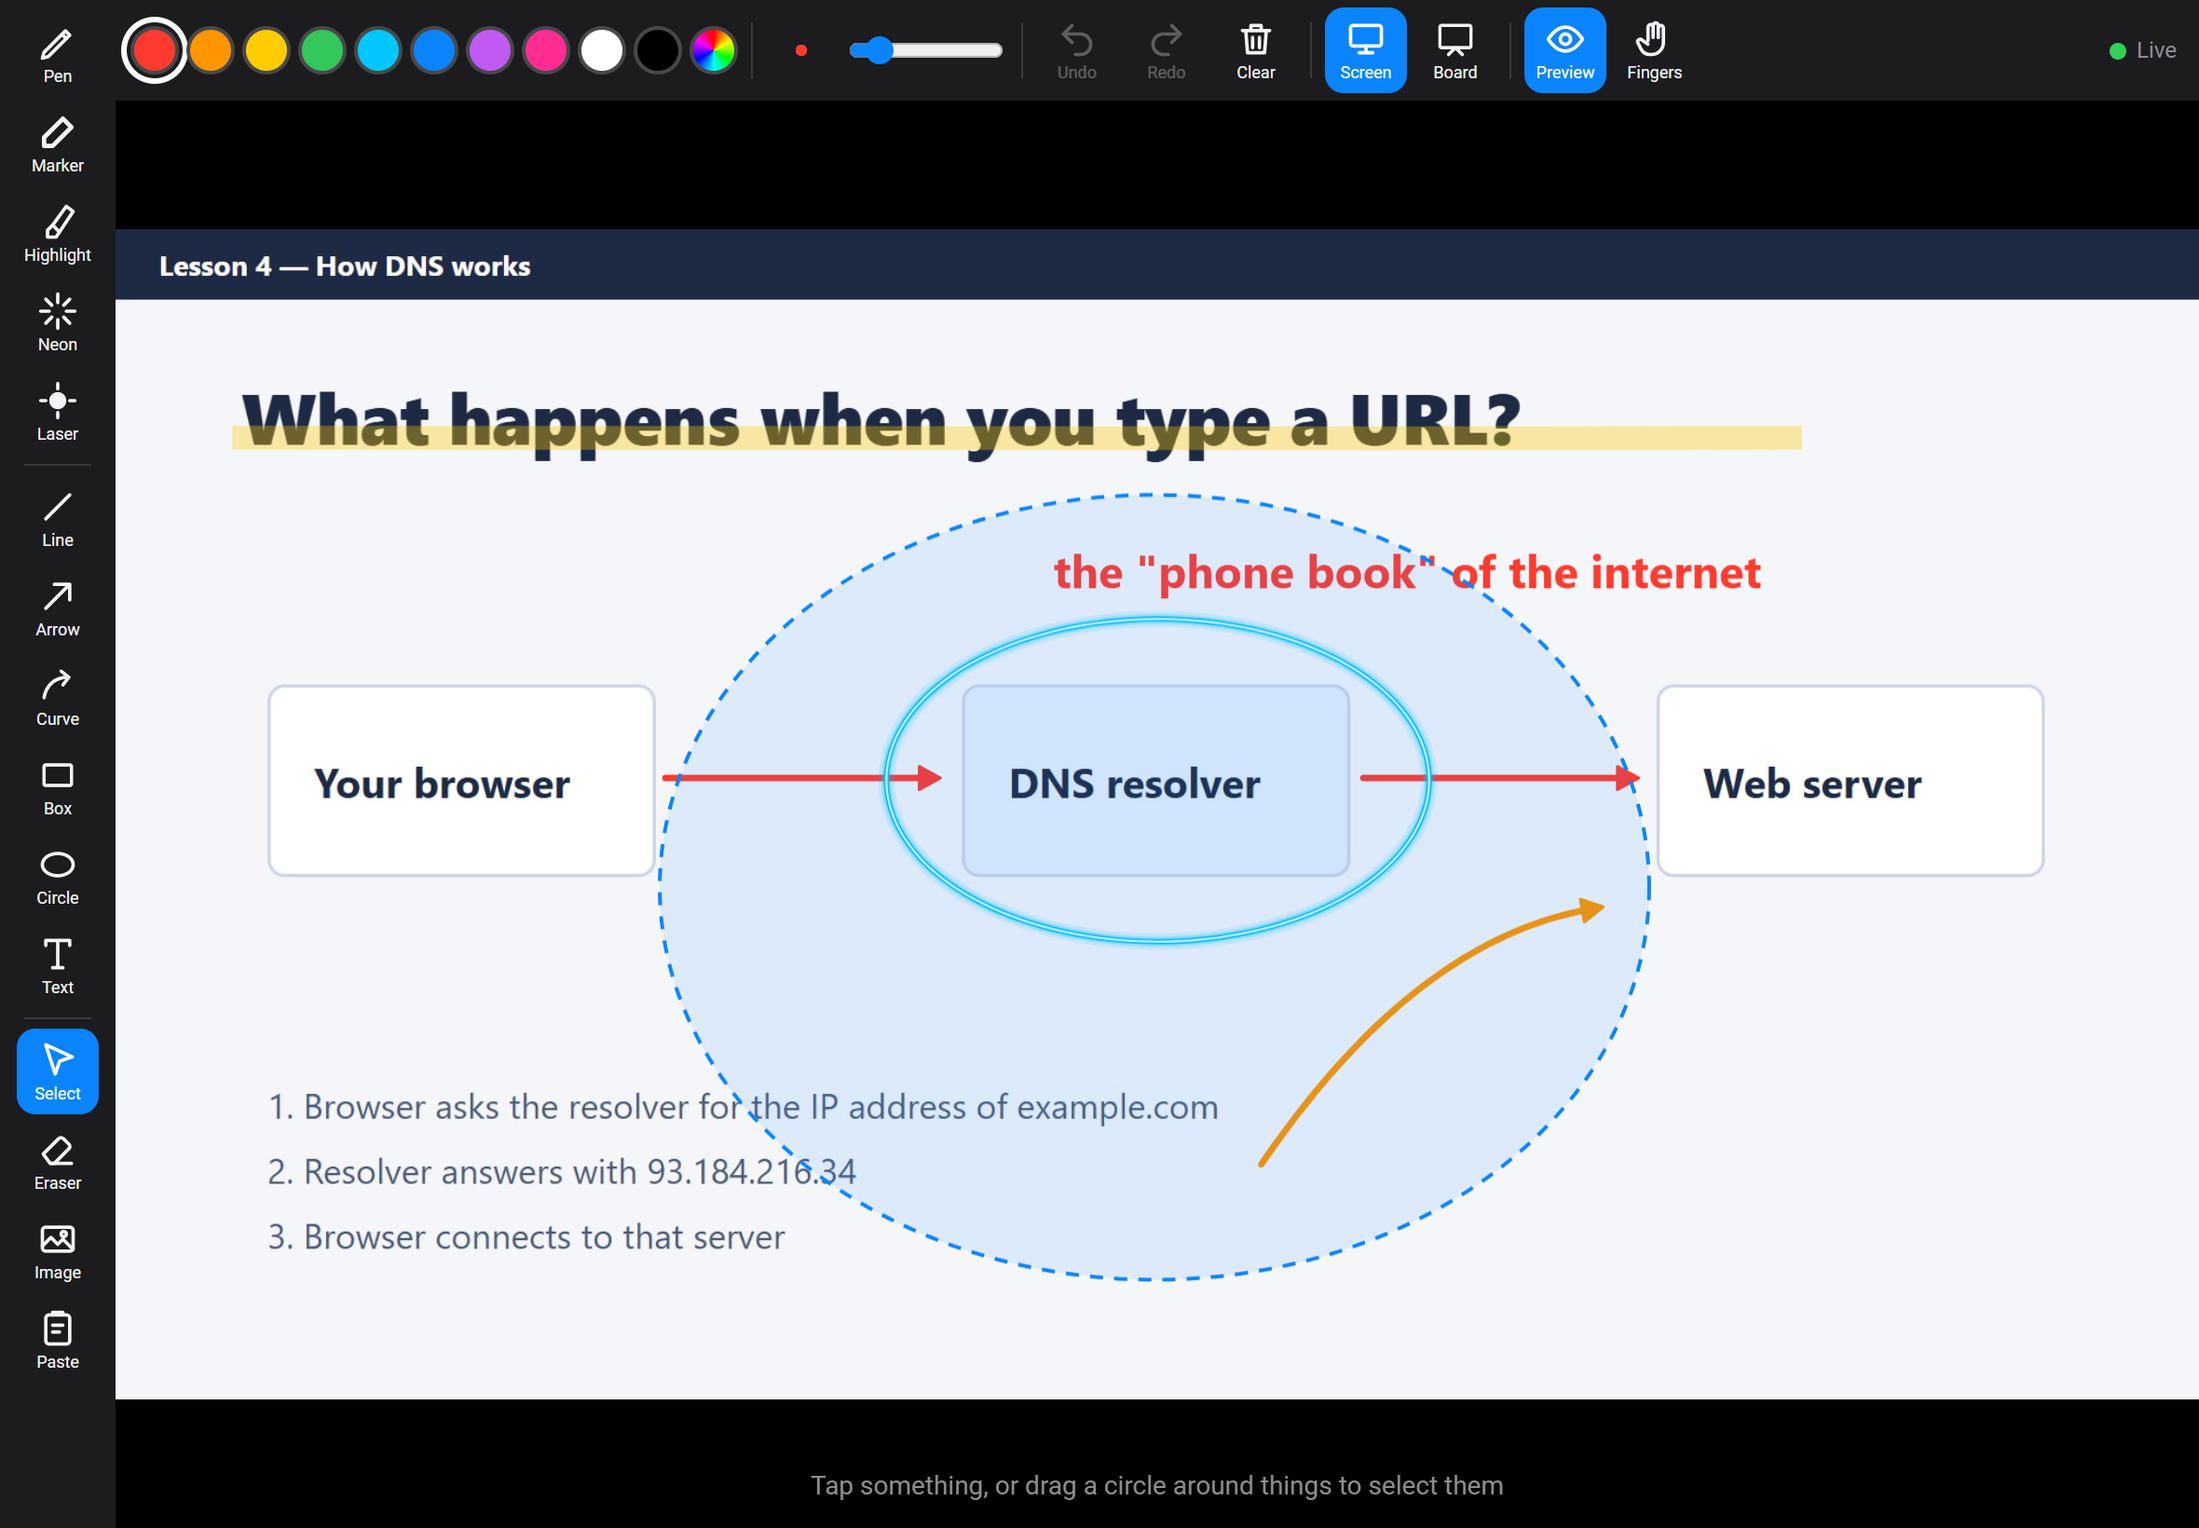
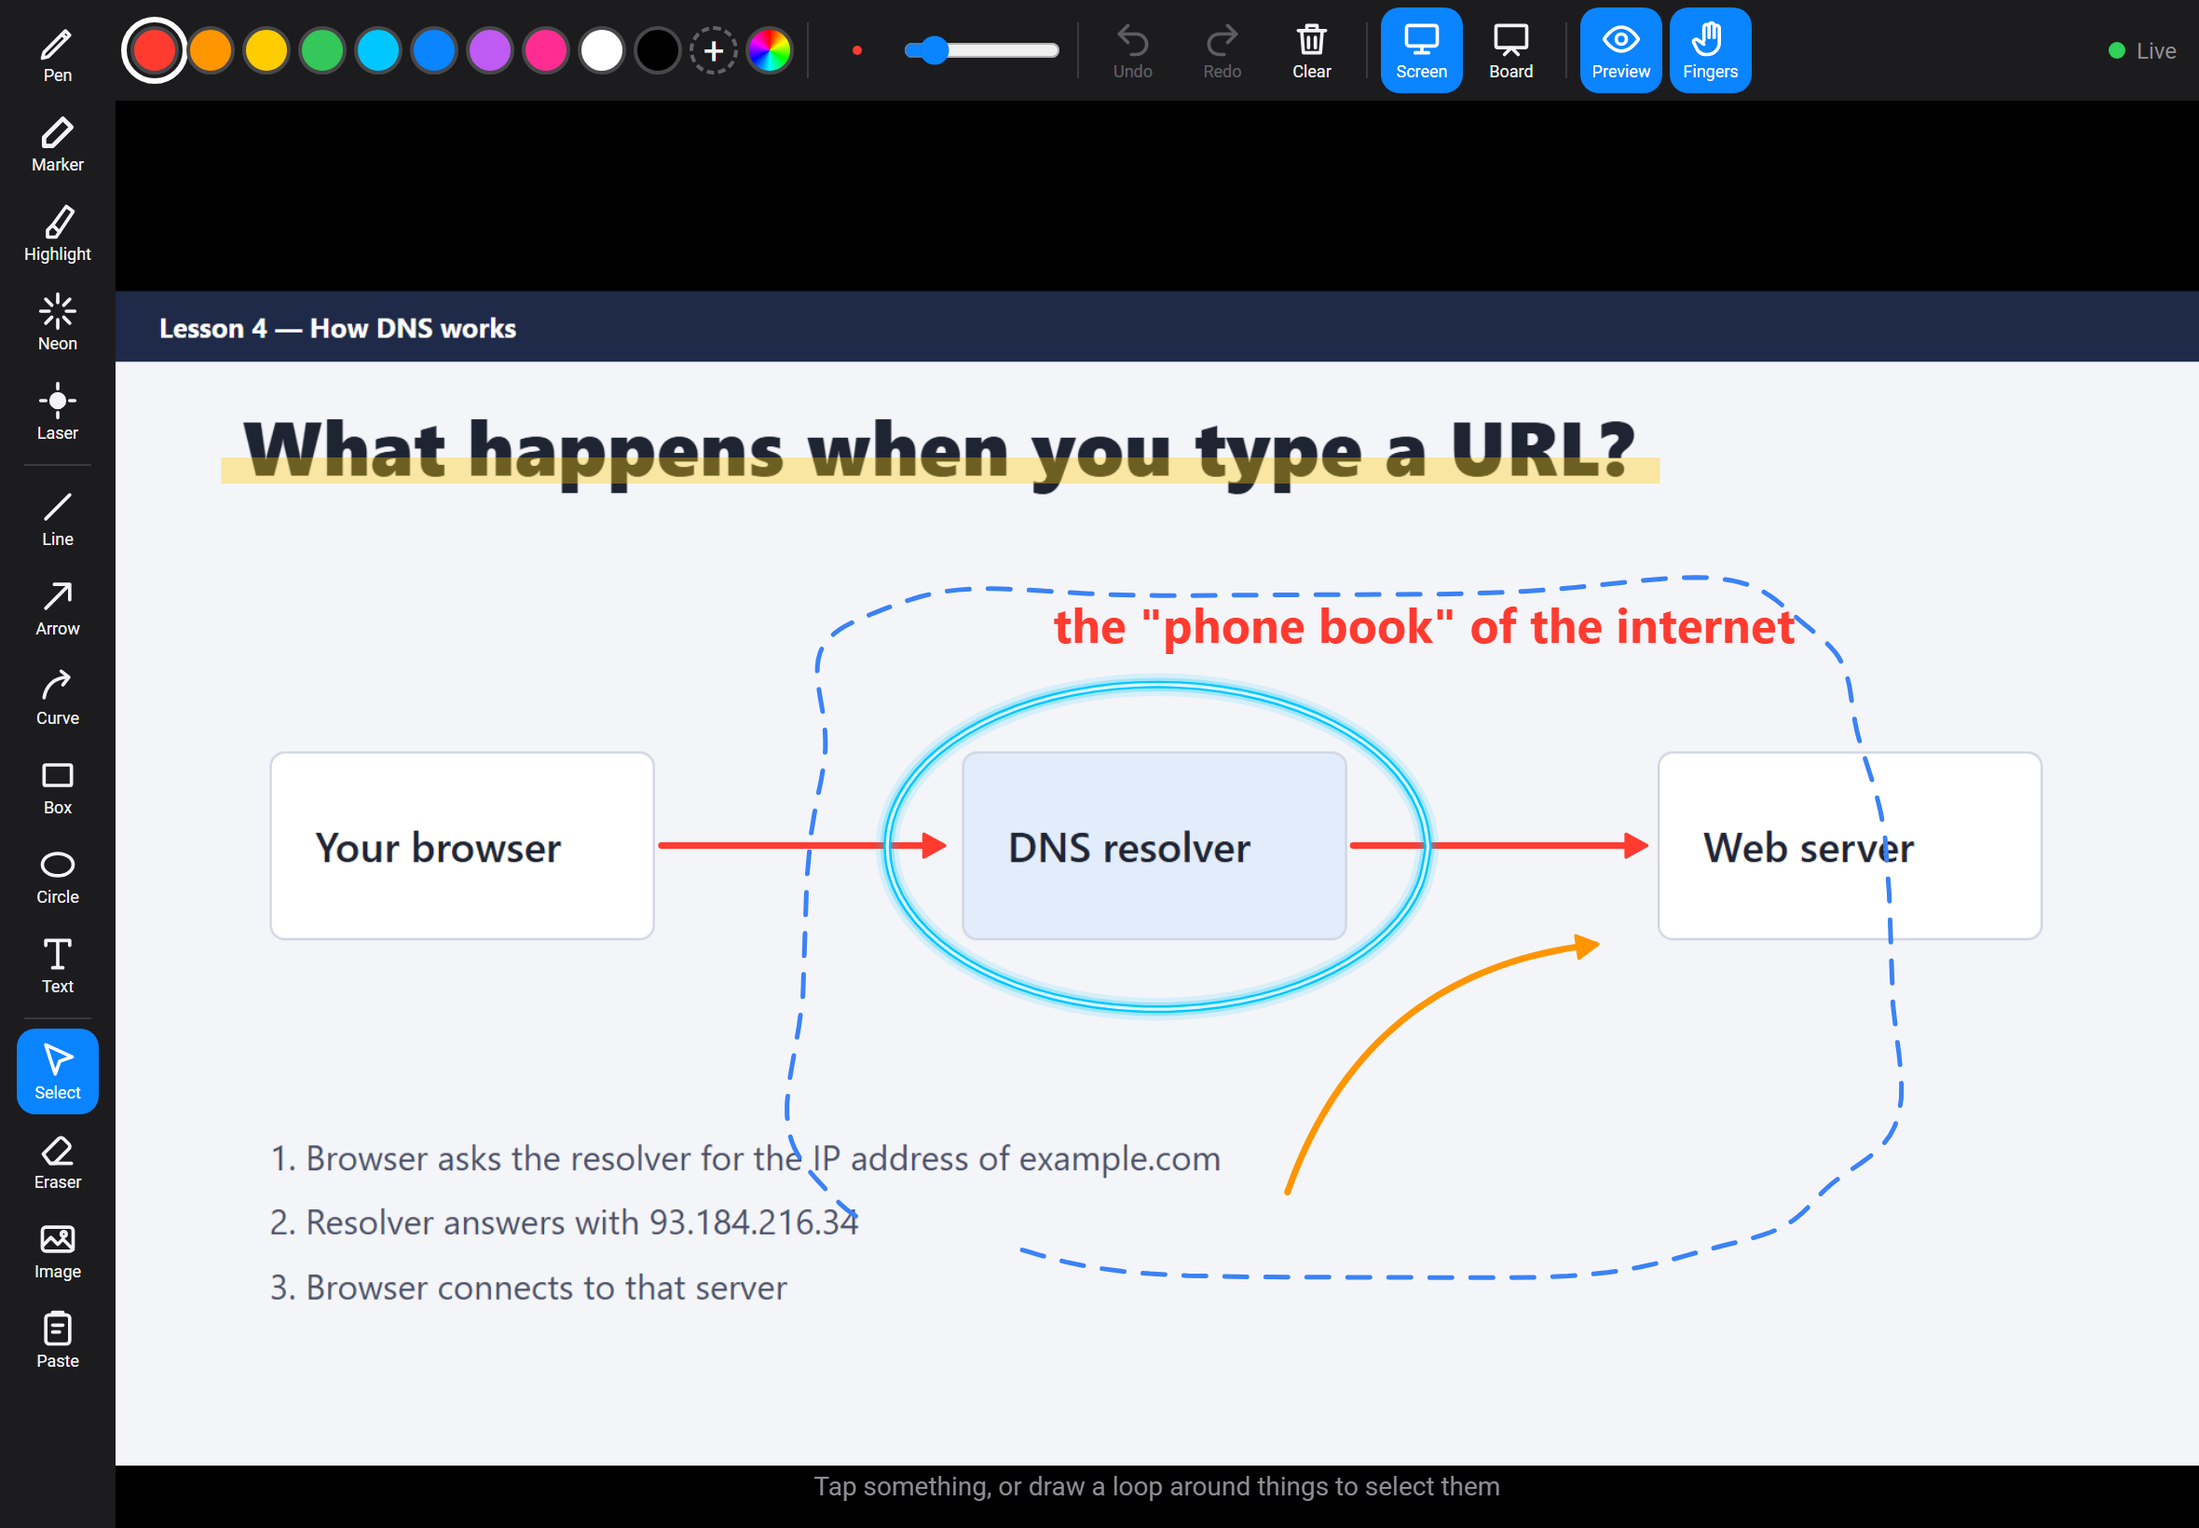
Smoother ink, pinch zoom and laser that keeps whole words
- Strokes are drawn with a 5-point blur plus Catmull-Rom spline, so the
  whole-pixel stairs tablets report no longer show and fast loops come
  out round; stroke endpoints stay at the pen tip (no added lag)
- Pinch with two fingers to zoom the tablet view (CSS transform, sharp
  re-render on release), one finger pans when fingers don't draw, palm
  touches are ignored while the pen is down
- Laser strokes stay on screen while you keep writing and fade together
  1.5 s after the last stroke
- Deleting a laser stroke on the PC side now works (used when a pinch
  cancels a stroke in progress)
- README: lasso caption, pinch zoom

diff --git a/inkcast.py b/inkcast.py
@@ -34,7 +34,7 @@ PORT = int(os.environ.get("INKCAST_PORT", "8765"))
 REF = 1920.0                      # sizes are defined relative to a 1920px-wide screen
 STROKES = {"pen", "marker", "hl", "neon", "laser", "farrow"}
 SHAPES = {"line", "arrow", "rect", "ellipse"}
-LASER_HOLD, LASER_FADE = 0.6, 0.6  # seconds a laser line stays, then fades
+LASER_HOLD, LASER_FADE = 1.5, 0.6  # seconds laser ink stays after the last stroke, then fades
 PREVIEW_WIDTH = 1280               # width of the screen preview sent to the tablet
 PREVIEW_QUALITY = 55
 MAX_IMAGE = 1600                   # pasted/inserted images are scaled down to this
@@ -157,16 +157,41 @@ class Bridge(QObject):
     tablet = Signal()       # a tablet connected
 
 
+SMOOTH_K = (0.06, 0.24, 0.4, 0.24, 0.06)  # tablets report pen positions in whole pixels; this blurs the stairs out
+
+
+def smooth_pts(pts):
+    n = len(pts)
+    if n < 5:
+        return pts
+    out = [pts[0]]
+    for i in range(1, n - 1):
+        x = y = 0.0
+        for j, w in enumerate(SMOOTH_K):
+            q = pts[min(max(i + j - 2, 0), n - 1)]
+            x += q.x() * w
+            y += q.y() * w
+        out.append(QPointF(x, y))
+    out.append(pts[-1])
+    return out
+
+
 def smooth_path(pts):
+    """Catmull-Rom spline through the (de-staired) points: fast strokes with few samples still come out round."""
+    pts = smooth_pts(pts)
     path = QPainterPath(pts[0])
-    if len(pts) < 3:
+    n = len(pts)
+    if n < 3:
         for q in pts[1:]:
             path.lineTo(q)
         return path
-    for i in range(1, len(pts) - 1):
-        a, b = pts[i], pts[i + 1]
-        path.quadTo(a, QPointF((a.x() + b.x()) / 2.0, (a.y() + b.y()) / 2.0))
-    path.lineTo(pts[-1])
+    for i in range(n - 1):
+        p0 = pts[i - 1] if i > 0 else pts[0]
+        p1, p2 = pts[i], pts[i + 1]
+        p3 = pts[i + 2] if i + 2 < n else pts[n - 1]
+        c1 = QPointF(p1.x() + (p2.x() - p0.x()) / 6.0, p1.y() + (p2.y() - p0.y()) / 6.0)
+        c2 = QPointF(p2.x() - (p3.x() - p1.x()) / 6.0, p2.y() - (p3.y() - p1.y()) / 6.0)
+        path.cubicTo(c1, c2, p2)
     return path
 
 
@@ -290,6 +315,8 @@ class Overlay(QWidget):
         if t == "add":
             it = self._prep(dict(d["item"]))
             if it["k"] == "laser":
+                for l in self.lasers.values():  # keep earlier laser strokes while writing
+                    l["_end"] = None
                 self.lasers[it["id"]] = it
             else:
                 items[it["id"]] = it
@@ -341,7 +368,9 @@ class Overlay(QWidget):
             for i in self._ids(d):
                 self.snap.pop(i, None)
                 if i in self.lasers:
-                    self.lasers[i]["_end"] = time.monotonic()
+                    now = time.monotonic()
+                    for l in self.lasers.values():  # all laser strokes fade together
+                        l["_end"] = now
                 if i in self.live:
                     self.live.discard(i)
                     it = items.get(i)
@@ -357,6 +386,9 @@ class Overlay(QWidget):
                 self.live.discard(d["id"])
                 self.dirty = True
                 self._mark(self._rect_of(it))
+            lz = self.lasers.pop(d["id"], None)
+            if lz is not None:
+                self._mark(self._rect_of(lz))
         elif t == "clear":
             items.clear(); self.live.clear(); self.lasers.clear(); self.snap.clear()
             self.dirty = True
@@ -1148,7 +1180,7 @@ html,body{margin:0;height:100%;background:#000;color:var(--fg);overflow:hidden;o
 #status{margin-left:auto;display:flex;align-items:center;gap:6px;color:var(--mut);white-space:nowrap;flex:none;padding:0 4px 0 8px;font-size:12px}
 #led{width:9px;height:9px;border-radius:50%;background:#ff453a}
 #led.ok{background:#30d158}
-#stage{position:fixed;background:#1a1a1a;overflow:hidden}
+#stage{position:fixed;background:#1a1a1a;overflow:hidden;transform-origin:0 0}
 #bg,#cv{position:absolute;left:0;top:0;width:100%;height:100%}
 #bg{display:block;visibility:hidden}
 #ed{position:absolute;display:none;z-index:1;margin:0;padding:0 2px;border:1.5px dashed #0a84ff;border-radius:4px;outline:none;
@@ -1450,12 +1482,76 @@ function ui(){
 }
 
 // ---------------- layout
+// ---------------- pinch zoom / pan with fingers (a CSS transform on the stage; pen input maps through it)
+let zoom = 1, zx = 0, zy = 0, pinch = null, pan = null, pidType = null;
+const touches = new Map();
+const MAX_ZOOM = 8;
+function applyZoom(){ stage.style.transform = zoom===1 ? '' : `translate(${zx}px,${zy}px) scale(${zoom})`; }
+function clampPan(){
+  if (zoom === 1) { zx = zy = 0; return; }
+  zx = Math.min(0, Math.max(sw*(1-zoom), zx)); zy = Math.min(0, Math.max(sh*(1-zoom), zy));
+}
+function stageOrigin(){ return [parseFloat(stage.style.left)||0, parseFloat(stage.style.top)||0]; }
+function pinchStart(){
+  const [a, b] = [...touches.values()], [L0, T0] = stageOrigin();
+  pinch = {d0: Math.hypot(a.x-b.x, a.y-b.y) || 1, z0: zoom,
+           lx: ((a.x+b.x)/2 - L0 - zx)/zoom, ly: ((a.y+b.y)/2 - T0 - zy)/zoom};  // stage point under the fingers
+}
+function pinchMove(){
+  const [a, b] = [...touches.values()], [L0, T0] = stageOrigin();
+  zoom = Math.min(MAX_ZOOM, Math.max(1, pinch.z0 * Math.hypot(a.x-b.x, a.y-b.y) / pinch.d0));
+  if (zoom < 1.04) zoom = 1;
+  zx = (a.x+b.x)/2 - L0 - zoom*pinch.lx; zy = (a.y+b.y)/2 - T0 - zoom*pinch.ly;
+  clampPan(); applyZoom();
+}
+function panStart(t){ pan = {x:t.x, y:t.y, zx, zy}; }
+function panMove(t){ zx = pan.zx + t.x - pan.x; zy = pan.zy + t.y - pan.y; clampPan(); applyZoom(); }
+function cancelPointer(){   // a second finger landed mid-stroke: drop whatever that pointer was doing
+  if (pid === null) return;
+  try { cv.releasePointerCapture(pid); } catch(_){}
+  if (cur) {
+    const it = cur; cur = null;
+    if (it.k==='laser') { const i = lasers.indexOf(it); if (i >= 0) lasers.splice(i, 1); }
+    else { const i = items.indexOf(it); if (i >= 0) items.splice(i, 1); }
+    send({t:'del', id:it.id});
+  }
+  pid = null; pidType = null; crect = null; erase = null; marq = null; drag = null; downPt = null;
+  needDraw = baseDirty = true;
+}
+function touchDown(e){   // returns true when the touch was taken by zoom/pan and must not draw
+  if (pid !== null && pidType === 'pen') return true;   // palm resting while writing
+  touches.set(e.pointerId, {x:e.clientX, y:e.clientY});
+  try { cv.setPointerCapture(e.pointerId); } catch(_){}
+  if (touches.size === 2) { cancelPointer(); pan = null; pinchStart(); return true; }
+  if (touches.size > 2) return true;
+  if (!S.fingers) { if (zoom > 1) panStart(touches.get(e.pointerId)); return true; }
+  return false;
+}
+function touchMove(e){
+  const t = touches.get(e.pointerId); if (!t) return false;
+  t.x = e.clientX; t.y = e.clientY;
+  if (pinch && touches.size >= 2) pinchMove();
+  else if (pan) panMove(t);
+  return e.pointerId !== pid;
+}
+function touchUp(e){
+  if (!touches.delete(e.pointerId)) return false;
+  if (pinch && touches.size < 2) {
+    pinch = null; layout();
+    const rest = [...touches.values()];
+    if (rest.length === 1 && zoom > 1) panStart(rest[0]);   // keep panning with the finger still down
+  } else if (pan && !touches.size) pan = null;
+  return e.pointerId !== pid;
+}
+addEventListener('gesturestart', e => e.preventDefault());
+
 function layout(){
   const L = 62, T = 54, W = innerWidth - L, Hh = innerHeight - T;
   let w = W, h = W/aspect; if (h > Hh) { h = Hh; w = Hh*aspect; }
   sw = w; sh = h;
   Object.assign(stage.style, {left:(L+(W-w)/2)+'px', top:(T+(Hh-h)/2)+'px', width:w+'px', height:h+'px'});
-  const dpr = devicePixelRatio || 1;
+  clampPan(); applyZoom();
+  const dpr = Math.min((devicePixelRatio || 1) * zoom, 4096 / w);  // more pixels when zoomed in so ink stays sharp
   cv.width = base.width = Math.round(w*dpr); cv.height = base.height = Math.round(h*dpr);
   if (editor) placeEditor();
   baseDirty = needDraw = true;
@@ -1463,17 +1559,30 @@ function layout(){
 addEventListener('resize', layout);
 
 // ---------------- rendering (mirrors the PC renderer)
+const SMOOTH_K = [0.06, 0.24, 0.4, 0.24, 0.06];  // mirrors the PC: blurs out whole-pixel stairs in pen input
+function smoothPts(pts){
+  const n = pts.length; if (n < 5) return pts;
+  const out = [pts[0]];
+  for (let i=1;i<n-1;i++) {
+    let x=0, y=0;
+    for (let j=0;j<5;j++) { const q = pts[Math.min(Math.max(i+j-2,0),n-1)]; x += q[0]*SMOOTH_K[j]; y += q[1]*SMOOTH_K[j]; }
+    out.push([x,y]);
+  }
+  out.push(pts[n-1]); return out;
+}
 function pathOf(c, pts, W, H){
   c.beginPath();
+  pts = smoothPts(pts);
   const n = pts.length;
   c.moveTo(pts[0][0]*W, pts[0][1]*H);
   if (n === 1) { c.lineTo(pts[0][0]*W+0.01, pts[0][1]*H); return; }
   if (n < 3) { c.lineTo(pts[1][0]*W, pts[1][1]*H); return; }
-  for (let i=1;i<n-1;i++) {
-    const x = pts[i][0]*W, y = pts[i][1]*H;
-    c.quadraticCurveTo(x, y, (x + pts[i+1][0]*W)/2, (y + pts[i+1][1]*H)/2);
+  // Catmull-Rom spline through every point: fast strokes with few samples still come out round
+  for (let i=0;i<n-1;i++) {
+    const p0 = pts[i>0?i-1:0], p1 = pts[i], p2 = pts[i+1], p3 = pts[i+2<n?i+2:n-1];
+    c.bezierCurveTo((p1[0]+(p2[0]-p0[0])/6)*W, (p1[1]+(p2[1]-p0[1])/6)*H,
+                    (p2[0]-(p3[0]-p1[0])/6)*W, (p2[1]-(p3[1]-p1[1])/6)*H, p2[0]*W, p2[1]*H);
   }
-  c.lineTo(pts[n-1][0]*W, pts[n-1][1]*H);
 }
 function drawBoard(c, W, H){
   c.fillStyle = BGC[S.bg]; c.fillRect(0,0,W,H);
@@ -1557,9 +1666,9 @@ function render(){
   if (drag) for (const it of items) if (drag.set.has(it)) draw(ctx, it, W, Hc);
   if (cur && cur.k!=='laser') draw(ctx, cur, W, Hc, 1, cur._pred);
   const now = performance.now();
-  lasers = lasers.filter(l => !l._end || now - l._end < 1200);
+  lasers = lasers.filter(l => !l._end || now - l._end < 2100);
   for (const l of lasers) {
-    let f = 1; if (l._end) { const a = now - l._end - 600; if (a > 0) f = Math.max(0, 1 - a/600); }
+    let f = 1; if (l._end) { const a = now - l._end - 1500; if (a > 0) f = Math.max(0, 1 - a/600); }
     draw(ctx, l, W, Hc, f, l===cur ? l._pred : null);
   }
   drawMarq(W, Hc);
@@ -1848,15 +1957,16 @@ function accept(e){
 function pushHist(h){ hist.push(h); if (hist.length>300) hist.shift(); redoS.length = 0; ui(); }
 
 cv.addEventListener('pointerdown', e => {
+  if (e.pointerType==='touch' && touchDown(e)) { e.preventDefault(); return; }
   if (!accept(e)) return;
   e.preventDefault();
   if (editor) { commitEditor(); return; }
-  pid = e.pointerId; crect = cv.getBoundingClientRect();
+  pid = e.pointerId; pidType = e.pointerType; crect = cv.getBoundingClientRect();
   try { cv.setPointerCapture(pid); } catch(_){}
   const p = pt(e), t = S.tool;
   if (STROKE[t]) {
     cur = {id:uid(), k:t, c:S.color, w:S.size*WMUL[t], pts:[p]};
-    if (t==='laser') lasers.push(cur); else items.push(cur);
+    if (t==='laser') { for (const l of lasers) l._end = null; lasers.push(cur); } else items.push(cur);
     send({t:'add', item:{id:cur.id, k:t, c:cur.c, w:cur.w, pts:[p]}});
   } else if (SHAPE[t]) {
     cur = {id:uid(), k:t, c:S.color, w:S.size, a:p, b:p};
@@ -1875,6 +1985,7 @@ cv.addEventListener('pointerdown', e => {
   flush(); needDraw = true; ui();
 });
 cv.addEventListener('pointermove', e => {
+  if (e.pointerType==='touch' && touchMove(e)) return;
   if (e.pointerId !== pid) return;
   const evs = (e.getCoalescedEvents && e.getCoalescedEvents().length) ? e.getCoalescedEvents() : [e];
   if (cur && STROKE[cur.k]) {
@@ -1923,11 +2034,12 @@ cv.addEventListener('pointermove', e => {
   flush();   // send right away instead of waiting for the next frame
 });
 function endPointer(e){
+  if (e.pointerType==='touch' && touchUp(e)) return;
   if (e.pointerId !== pid) return;
-  pid = null; crect = null;
+  pid = null; pidType = null; crect = null;
   if (cur) {
     const it = cur; cur = null; it._pred = null;
-    if (it.k==='laser') { it._end = performance.now(); send({t:'end', id:it.id}); }
+    if (it.k==='laser') { const t = performance.now(); for (const l of lasers) l._end = t; send({t:'end', id:it.id}); }
     else if (SHAPE[it.k] && Math.hypot((it.b[0]-it.a[0])*sw, (it.b[1]-it.a[1])*sh) < 4) {
       items.splice(items.indexOf(it), 1); send({t:'del', id:it.id});
     } else { send({t:'end', id:it.id}); pushHist({a:'add', its:[it]}); toBase(it); }

diff --git a/README.md b/README.md
@@ -33,13 +33,14 @@ No tablet app to install. No subscription. No account.
 - **Whiteboard:** tap **Board** and pick a white, grid, black or green chalkboard board; each keeps its own drawings
 - **Undo / redo, eraser, clear**
 - **Works with fingers or a pencil.** When a pencil is detected, fingers stop drawing automatically so your palm can rest on the screen (toggle with **Fingers**)
+- **Pinch to zoom** with two fingers for fine detail, and drag with one finger (or two) to move around while zoomed; pinch back out to return to the full view
 - **Live screen preview** on the tablet so you can see where you're drawing
 - **PC keyboard shortcuts** so you can control it without touching the tablet
 - **Phone camera over USB:** use your Android phone as a face cam or document cam, with no app on the phone ([details](#use-your-android-phone-as-a-camera-usb-no-app))
 
 | Circle to select | Edit many things at once |
 |---|---|
-| ![Circle selection](screenshots/lasso.png) | ![Selected items recolored](screenshots/select.png) |
+| ![Lasso selection](screenshots/lasso.png) | ![Selected items recolored](screenshots/select.png) |
 
 ![Whiteboard mode](screenshots/whiteboard.png)
 
